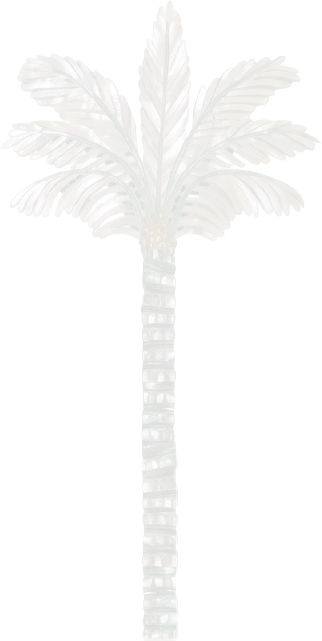
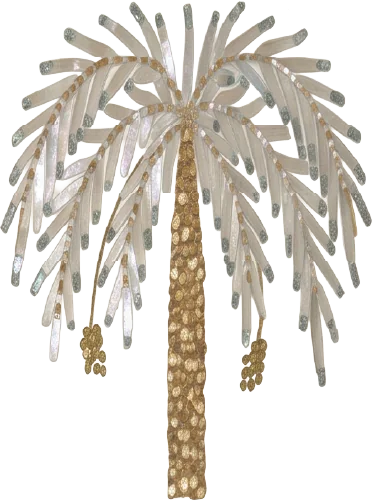
Fix decorative asset placement: faithful reconstruction of the original
- Moon (Asset 29) restored to top-right at original size (was a tiny top-center disc)
- Branch (Asset 31) restored to top-left (was a mis-placed pyramid, Asset 61)
- Add the 3 Out & About hanging lanterns (Asset 45/46/47) that were missing
- Wedding palm is now the prominent Asset 28; palms flank RSVP; discs/stars matched
- Every asset positioned/sized by measuring the original (Artboard 11) per section
- Tone down motion: float amplitude ~3-4px, gentle fade-in, parallax off (no drift)

diff --git a/index.html b/index.html
@@ -11,7 +11,7 @@
 
   <!-- The invitation is one baked-text illustration; decorative pieces float over it. -->
   <link rel="preload" as="image" href="assets/invitation.webp?v=2" type="image/webp" />
-  <link rel="stylesheet" href="styles.css?v=10" />
+  <link rel="stylesheet" href="styles.css?v=11" />
 </head>
 
 <body>
@@ -37,22 +37,22 @@
 
       <!-- Animated decorative cutouts (ornamental; generated from tools/deco_manifest.json). -->
       <div class="deco-layer" aria-hidden="true">
-        <img class="deco floral is-parallax" src="assets/deco/floral-top-left.webp?v=1" width="578" height="464" style="--top:-1.0%;--left:-5.0%;--w:32.0%;--dur:8.0s;--fdelay:-0.0s;--edelay:0.0s" loading="lazy" decoding="async" alt="">
-        <img class="deco floral" src="assets/deco/floral-top-right.webp?v=1" width="249" height="309" style="--top:0.0%;--left:74.0%;--w:21.0%;--dur:8.4s;--fdelay:-0.47s;--edelay:0.12s" loading="lazy" decoding="async" alt="">
-        <img class="deco disc" src="assets/deco/disc-top.webp?v=1" width="269" height="254" style="--top:0.6%;--left:45.0%;--w:14.0%;--dur:9.8s;--fdelay:-0.94s;--edelay:0.24s" loading="lazy" decoding="async" alt="">
-        <img class="deco sparkle" src="assets/deco/sparkle-top.webp?v=1" width="187" height="301" style="--top:3.5%;--left:6.0%;--w:12.0%;--dur:5.5s;--fdelay:-1.41s;--edelay:0.36s" loading="lazy" decoding="async" alt="">
-        <img class="deco star" src="assets/deco/star-top-left.webp?v=1" width="68" height="82" style="--top:6.5%;--left:9.0%;--w:4.0%;--dur:6.9s;--fdelay:-1.88s;--edelay:0.48s" loading="lazy" decoding="async" alt="">
-        <img class="deco star" src="assets/deco/star-top-right.webp?v=1" width="53" height="55" style="--top:9.0%;--left:88.0%;--w:3.3%;--dur:7.3s;--fdelay:-2.35s;--edelay:0.6s" loading="lazy" decoding="async" alt="">
-        <img class="deco palm is-parallax" src="assets/deco/palm-wedding.webp?v=1" width="322" height="641" style="--top:26.0%;--left:60.0%;--w:25.0%;--dur:8.5s;--fdelay:-2.82s;--edelay:0.0s" loading="lazy" decoding="async" alt="">
-        <img class="deco star" src="assets/deco/star-wedding.webp?v=1" width="230" height="226" style="--top:28.5%;--left:41.0%;--w:12.0%;--dur:6.9s;--fdelay:-3.29s;--edelay:0.12s" loading="lazy" decoding="async" alt="">
-        <img class="deco disc" src="assets/deco/disc-wedding.webp?v=1" width="173" height="177" style="--top:30.5%;--left:5.0%;--w:9.0%;--dur:9.8s;--fdelay:-3.76s;--edelay:0.24s" loading="lazy" decoding="async" alt="">
-        <img class="deco palm flip is-parallax" src="assets/deco/palm-cairo.webp?v=1" width="322" height="641" style="--top:36.0%;--left:-6.0%;--w:22.0%;--dur:8.5s;--fdelay:-0.23s;--edelay:0.36s" loading="lazy" decoding="async" alt="">
-        <img class="deco disc" src="assets/deco/disc-cairo.webp?v=1" width="192" height="203" style="--top:41.0%;--left:73.0%;--w:10.0%;--dur:9.4s;--fdelay:-0.7s;--edelay:0.48s" loading="lazy" decoding="async" alt="">
-        <img class="deco disc" src="assets/deco/disc-transport.webp?v=1" width="91" height="90" style="--top:48.5%;--left:7.0%;--w:6.0%;--dur:9.8s;--fdelay:-1.17s;--edelay:0.6s" loading="lazy" decoding="async" alt="">
-        <img class="deco disc" src="assets/deco/disc-outabout.webp?v=1" width="173" height="161" style="--top:72.5%;--left:81.0%;--w:9.0%;--dur:9.0s;--fdelay:-1.64s;--edelay:0.0s" loading="lazy" decoding="async" alt="">
-        <img class="deco disc" src="assets/deco/disc-rsvp.webp?v=1" width="288" height="271" style="--top:80.0%;--left:71.0%;--w:15.0%;--dur:9.4s;--fdelay:-2.11s;--edelay:0.12s" loading="lazy" decoding="async" alt="">
-        <img class="deco palm is-parallax" src="assets/deco/palm-rsvp-left.webp?v=1" width="323" height="642" style="--top:87.0%;--left:-5.0%;--w:24.0%;--dur:9.3s;--fdelay:-2.58s;--edelay:0.24s" loading="lazy" decoding="async" alt="">
-        <img class="deco palm flip is-parallax" src="assets/deco/palm-rsvp-right.webp?v=1" width="323" height="642" style="--top:87.0%;--left:81.0%;--w:24.0%;--dur:8.5s;--fdelay:-3.05s;--edelay:0.36s" loading="lazy" decoding="async" alt="">
+        <img class="deco floral" src="assets/deco/branch-top-left.webp?v=2" width="411" height="413" style="--top:-1.0%;--left:-4.0%;--w:42.0%;--dur:8.0s;--fdelay:-0.0s;--edelay:0.0s" loading="lazy" decoding="async" alt="">
+        <img class="deco moon" src="assets/deco/moon-top-right.webp?v=2" width="365" height="344" style="--top:1.2%;--left:52.0%;--w:33.0%;--dur:8.4s;--fdelay:-0.47s;--edelay:0.12s" loading="lazy" decoding="async" alt="">
+        <img class="deco sparkle" src="assets/deco/sparkle-top.webp?v=2" width="187" height="301" style="--top:5.0%;--left:9.0%;--w:15.0%;--dur:6.3s;--fdelay:-0.94s;--edelay:0.24s" loading="lazy" decoding="async" alt="">
+        <img class="deco star" src="assets/deco/star-top-left.webp?v=2" width="68" height="82" style="--top:7.0%;--left:26.0%;--w:4.0%;--dur:6.5s;--fdelay:-1.41s;--edelay:0.36s" loading="lazy" decoding="async" alt="">
+        <img class="deco palm" src="assets/deco/palm-wedding.webp?v=2" width="373" height="501" style="--top:25.5%;--left:56.0%;--w:30.0%;--dur:8.9s;--fdelay:-1.88s;--edelay:0.48s" loading="lazy" decoding="async" alt="">
+        <img class="deco disc" src="assets/deco/disc-wedding.webp?v=2" width="173" height="177" style="--top:33.0%;--left:2.0%;--w:9.0%;--dur:9.8s;--fdelay:-2.35s;--edelay:0.6s" loading="lazy" decoding="async" alt="">
+        <img class="deco palm flip" src="assets/deco/palm-cairo.webp?v=2" width="322" height="641" style="--top:36.0%;--left:-6.0%;--w:22.0%;--dur:8.5s;--fdelay:-2.82s;--edelay:0.0s" loading="lazy" decoding="async" alt="">
+        <img class="deco disc" src="assets/deco/disc-cairo.webp?v=2" width="192" height="203" style="--top:41.0%;--left:73.0%;--w:10.0%;--dur:9.4s;--fdelay:-3.29s;--edelay:0.12s" loading="lazy" decoding="async" alt="">
+        <img class="deco disc" src="assets/deco/disc-transport.webp?v=2" width="91" height="90" style="--top:48.5%;--left:7.0%;--w:6.0%;--dur:9.8s;--fdelay:-3.76s;--edelay:0.24s" loading="lazy" decoding="async" alt="">
+        <img class="deco lantern" src="assets/deco/lantern-out-left.webp?v=2" width="51" height="85" style="--top:59.5%;--left:13.0%;--w:4.5%;--dur:8.0s;--fdelay:-0.23s;--edelay:0.36s" loading="lazy" decoding="async" alt="">
+        <img class="deco lantern" src="assets/deco/lantern-out-right.webp?v=2" width="51" height="86" style="--top:59.5%;--left:80.0%;--w:4.5%;--dur:8.4s;--fdelay:-0.7s;--edelay:0.48s" loading="lazy" decoding="async" alt="">
+        <img class="deco lantern" src="assets/deco/lantern-out-mid.webp?v=2" width="37" height="67" style="--top:62.5%;--left:21.0%;--w:3.5%;--dur:8.8s;--fdelay:-1.17s;--edelay:0.6s" loading="lazy" decoding="async" alt="">
+        <img class="deco disc" src="assets/deco/disc-outabout.webp?v=2" width="192" height="178" style="--top:67.0%;--left:3.0%;--w:10.0%;--dur:9.0s;--fdelay:-1.64s;--edelay:0.0s" loading="lazy" decoding="async" alt="">
+        <img class="deco disc" src="assets/deco/disc-rsvp.webp?v=2" width="224" height="210" style="--top:80.0%;--left:72.0%;--w:14.0%;--dur:9.4s;--fdelay:-2.11s;--edelay:0.12s" loading="lazy" decoding="async" alt="">
+        <img class="deco palm" src="assets/deco/palm-rsvp-left.webp?v=2" width="323" height="642" style="--top:87.0%;--left:-5.0%;--w:24.0%;--dur:9.3s;--fdelay:-2.58s;--edelay:0.24s" loading="lazy" decoding="async" alt="">
+        <img class="deco palm flip" src="assets/deco/palm-rsvp-right.webp?v=2" width="323" height="642" style="--top:87.0%;--left:81.0%;--w:24.0%;--dur:8.5s;--fdelay:-3.05s;--edelay:0.36s" loading="lazy" decoding="async" alt="">
       </div>
 
       <!-- Invisible clickable layer. top/left/width/height are % of the image. -->
@@ -162,6 +162,6 @@
     </p>
   </main>
 
-  <script src="script.js?v=6"></script>
+  <script src="script.js?v=7"></script>
 </body>
 </html>

diff --git a/styles.css b/styles.css
@@ -50,16 +50,19 @@ body {
   transform: translate3d(0, var(--py), 0) scaleX(var(--sx));
 }
 .deco.flip { --sx: -1; }
-.deco.palm    { --amp: -8px; }          /* idle float peak offsets, by type */
-.deco.floral  { --amp: -7px; }
-.deco.disc    { --amp: -6px; }
-.deco.star    { --amp: -5px; }
-.deco.sparkle { --amp: -5px; }
+/* Idle float peak offsets, by type — kept very small so nothing drifts off its spot. */
+.deco.palm    { --amp: -4px; }
+.deco.floral  { --amp: -3px; }
+.deco.disc    { --amp: -3px; }
+.deco.star    { --amp: -3px; }
+.deco.sparkle { --amp: -2px; }
+.deco.moon    { --amp: -3px; }
+.deco.lantern { --amp: -2px; }
 
 /* When JS enables motion it adds .deco-anim to <body>: hide, then reveal on scroll. */
 .deco-anim .deco {
   opacity: 0;
-  transform: translate3d(0, 16px, 0) scaleX(var(--sx));
+  transform: translate3d(0, 10px, 0) scaleX(var(--sx));   /* gentle rise on entrance */
   will-change: transform, opacity;
 }
 .deco-anim .deco.is-in {                /* soft entrance: fade + small rise */